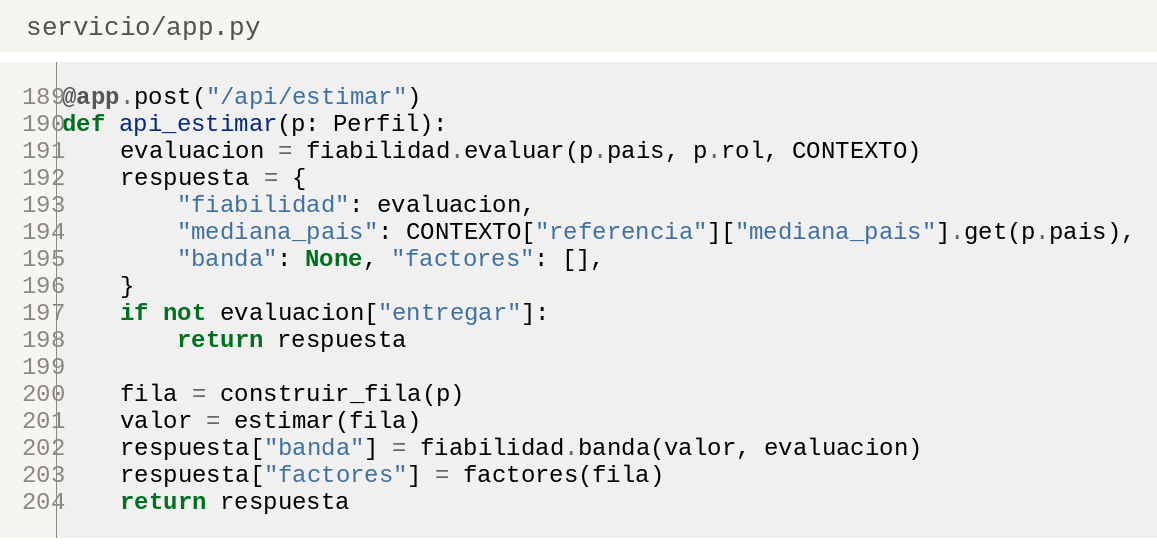
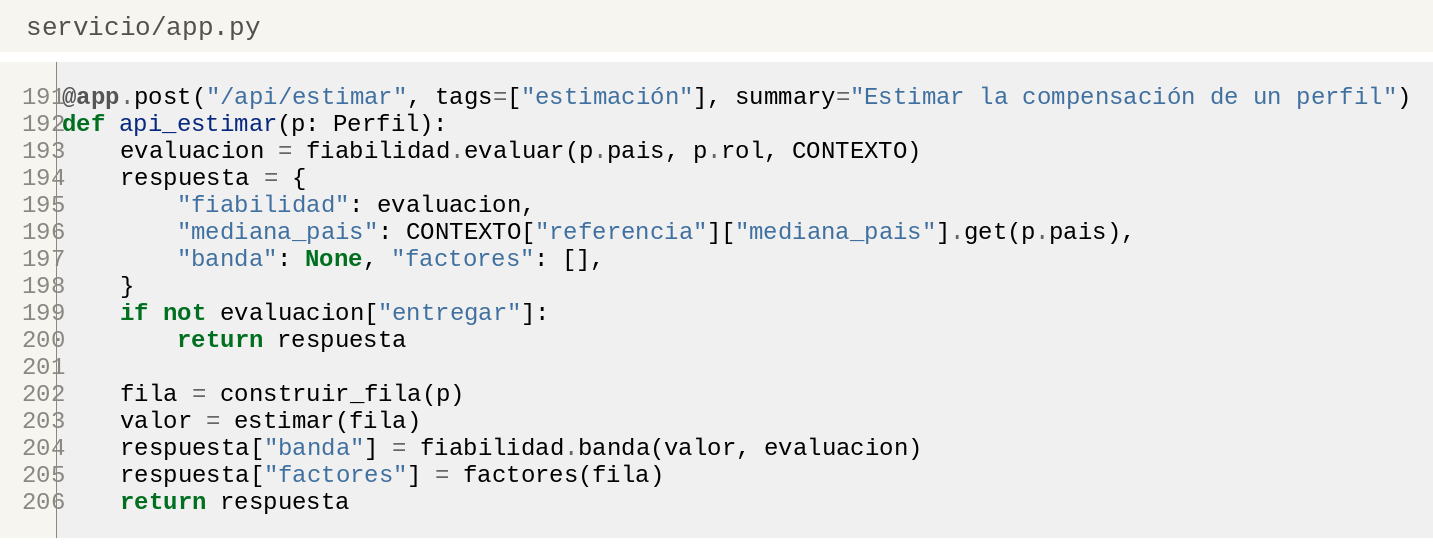
fix: documentación de la API en castellano, etiqueta del conmutador con la tipografía de la página y nombres completos en los gráficos de dependencia SHAP

Changed region(s): [[0.0, 0.1562, 0.9957, 0.9375], [0.0, 0.0312, 0.2178, 0.0938], [0.6845, 0.25, 0.809, 0.3125]]

diff --git a/servicio/static/index.html b/servicio/static/index.html
@@ -372,7 +372,7 @@ function vistaComparar(datos) {
           ? ". En dólares corrientes la distancia es mayor: parte de la brecha nominal es nivel de precios, no poder de compra"
           : ". Ninguna otra variable del modelo produce diferencias de esa magnitud"}.</p>` : "";
   const conmutador = `<p class="sub" style="margin-top:10px">
-    <label style="display:inline;font:13px Georgia,serif;text-transform:none;letter-spacing:0;color:var(--tinta2);cursor:pointer">
+    <label style="display:inline;font-size:13px;font-family:inherit;text-transform:none;letter-spacing:0;color:var(--tinta2);cursor:pointer">
       <input type="checkbox" id="escala-ppa" ${ESCALA_PPA ? "checked" : ""}
              style="width:auto;vertical-align:middle"> ver en poder de compra
       (dólares de paridad, Banco Mundial 2023)</label></p>`;

diff --git a/scripts/capturas_capitulo4.js b/scripts/capturas_capitulo4.js
@@ -69,7 +69,11 @@ async function consultar(p, pais, rol, anios) {
   // Documentación que FastAPI genera sola.
   await p.goto(`${URL}/api/docs`, {waitUntil: 'networkidle0'});
   await new Promise(r => setTimeout(r, 1500));
-  await p.screenshot({path: `${SALIDA}/api_docs.png`, clip: {x: 0, y: 0, width: 900, height: 900}});
+  const finDocs = await p.evaluate(() => {
+    const secciones = document.querySelectorAll('.opblock-tag-section');
+    return Math.ceil(secciones[secciones.length - 1].getBoundingClientRect().bottom + scrollY) + 24;
+  });
+  await p.screenshot({path: `${SALIDA}/api_docs.png`, clip: {x: 0, y: 0, width: 900, height: finDocs}});
   console.log('api_docs capturada');
 
   await b.close();

diff --git a/servicio/app.py b/servicio/app.py
@@ -148,15 +148,17 @@ def factores(fila: pd.DataFrame, limite: int = 7) -> list[dict]:
             for k, v in orden[:limite] if abs(v) > 1e-4]
 
 
-app = FastAPI(title="Estimación salarial explicable", docs_url="/api/docs")
+app = FastAPI(title="Estimación salarial explicable", docs_url="/api/docs",
+              # Oculta el bloque de esquemas, que la documentación rotula en inglés.
+              swagger_ui_parameters={"defaultModelsExpandDepth": -1})
 
 
-@app.get("/api/salud")
+@app.get("/api/salud", tags=["servicio"], summary="Estado del servicio")
 def salud():
     return {"estado": "ok", "modelo": CONTEXTO["modelo"]}
 
 
-@app.get("/api/contexto")
+@app.get("/api/contexto", tags=["servicio"], summary="Catálogos y ficha del modelo")
 def contexto():
     """Catálogos del formulario y ficha del modelo."""
     return {
@@ -168,7 +170,7 @@ def contexto():
     }
 
 
-@app.get("/api/roles")
+@app.get("/api/roles", tags=["servicio"], summary="Roles del país y su respaldo")
 def api_roles(pais: str):
     """Roles del país con su respaldo, para que la interfaz ordene y marque el desplegable."""
     fia = CONTEXTO["fiabilidad"]
@@ -186,7 +188,7 @@ def api_roles(pais: str):
             "con_respaldo": sum(1 for r in salida if r["respaldado"])}
 
 
-@app.post("/api/estimar")
+@app.post("/api/estimar", tags=["estimación"], summary="Estimar la compensación de un perfil")
 def api_estimar(p: Perfil):
     evaluacion = fiabilidad.evaluar(p.pais, p.rol, CONTEXTO)
     respuesta = {
@@ -204,7 +206,7 @@ def api_estimar(p: Perfil):
     return respuesta
 
 
-@app.post("/api/comparar")
+@app.post("/api/comparar", tags=["estimación"], summary="Comparar el perfil entre países")
 def api_comparar(c: Comparacion):
     if not c.paises:
         raise HTTPException(400, "Indica al menos un país con el que comparar.")
@@ -226,6 +228,6 @@ def api_comparar(c: Comparacion):
 app.mount("/static", StaticFiles(directory=RAIZ / "static"), name="static")
 
 
-@app.get("/")
+@app.get("/", include_in_schema=False)
 def inicio():
     return FileResponse(RAIZ / "static" / "index.html")

diff --git a/scripts/ejecutar_interacciones.py b/scripts/ejecutar_interacciones.py
@@ -10,6 +10,7 @@ Uso:
 """
 
 import argparse
+import re
 import sys
 from pathlib import Path
 
@@ -69,7 +70,7 @@ def grafico_dependencia(valores, X, nombres, i, j, salida: Path, etiquetas):
     ax.grid(alpha=0.5, color=REJILLA)
     ax.set_axisbelow(True)
 
-    nombre = f"shap_dependencia_{nombres[i].replace('_','').lower()[:20]}"
+    nombre = "shap_dependencia_" + re.sub(r"[^a-z0-9]+", "_", nombres[i].lower()).strip("_")
     ruta = salida / f"{nombre}.png"
     fig.savefig(ruta, dpi=200, bbox_inches="tight", pad_inches=0.15, facecolor="white")
     plt.close(fig)
@@ -121,6 +122,7 @@ def main():
         "DevType": "Rol (codificado por objetivo)",
         "WorkExp_num": "Experiencia laboral total",
         "income_group_High income": "País de renta alta",
+        "language__typescript": "Lenguaje: TypeScript",
     }
 
     print(f"Examinando interacciones entre las {len(principales)} variables principales\n")

diff --git a/scripts/generar_figuras_codigo.py b/scripts/generar_figuras_codigo.py
@@ -101,7 +101,7 @@ if __name__ == "__main__":
          '"La estimación se apoya en datos suficientes', 0),
     ])
     figura("codigo_api", "servicio/app.py", [
-        ('@app.post("/api/estimar")', 'respuesta["factores"] = factores(fila)', 1),
+        ('@app.post("/api/estimar"', 'respuesta["factores"] = factores(fila)', 1),
     ])
     figura("codigo_dockerfile", "servicio/Dockerfile", [
         ("Contexto de construcción", 'CMD ["uvicorn"', 0),
